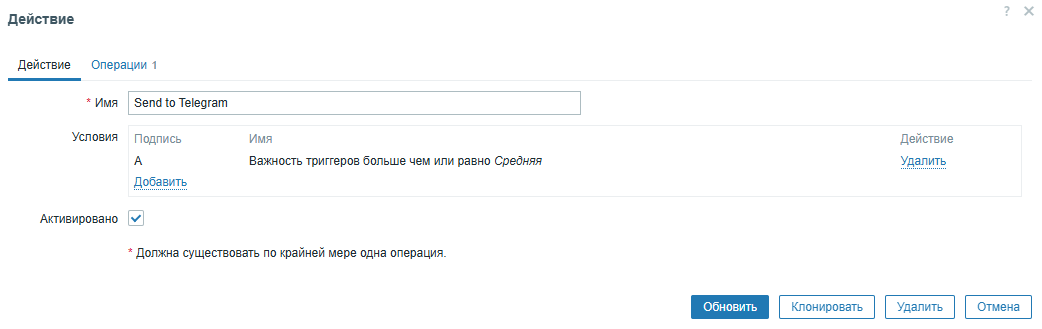
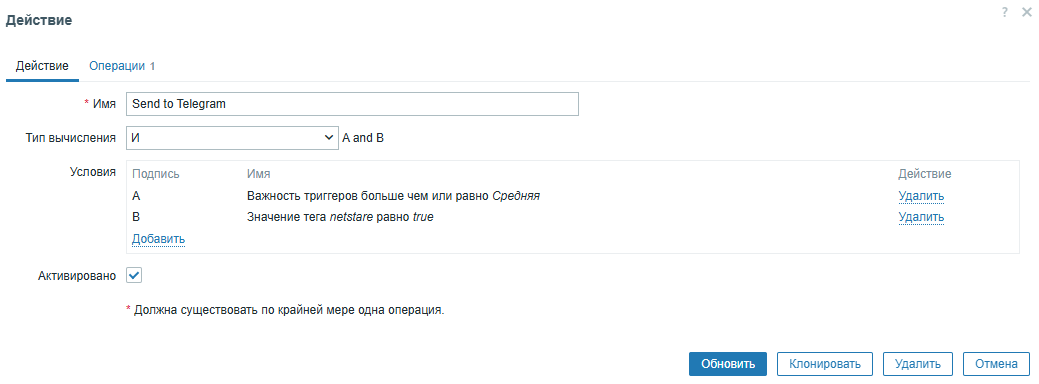
init

diff --git a/about/index.md b/about/index.md
@@ -3,16 +3,13 @@ title: Структура чат-бота
 layout: default
 nav_order: 2
 ---
-
 Первоначальный интерфейс чат-бота располагает элементами клавиатуры:
-1. 📖 **Выбор устройства** - фильтрация по группе, затем по устройству
-2. ❗ **Проблемы** - вывод списка текущих проблем с последующим переходом к ней
-3. 🔍 **Поиск** - поиск устройства по части его названия с послеующим переходом к его метрикам
-4. 👤 **Личный кабинет** - информация о пользователе
-5. 📚 **Помощь** - документация и поддержка
+1. 📖 **Выбор устройства** - фильтрация по группе, затем по устройству;
+2. ❗ **Проблемы** - вывод списка текущих проблем с последующим переходом к ней;
+3. 🔍 **Поиск** - поиск устройства по части его названия с послеующим переходом к его метрикам;
+4. 📚 **Помощь** - документация и поддержка.
 
-
+Структура клавиатуры
 {: .important-title }
-> Структура клавиатуры
 >
 > ![screenshot](../images/start.png)

diff --git a/zabbix/alerts.md b/zabbix/alerts.md
@@ -3,3 +3,18 @@ title: Подключение уведомлений
 layout: default
 parent: Интеграция Zabbix
 ---
+
+Подключение уведомлений на возникновение и восстановление проблемы
+(отправка ботом сообщений в Telegram-группу)
+
+1. По пути Оповещения -> Действия -> Действия триггеров:
+(**Путь на веб** - *zabbix.php?action=action.list&eventsource=0*)
+![screenshot](../images/zabbix-notifications/actions1.png)
+![screenshot](../images/zabbix-notifications/actions2.png)
+
+2. По пути Оповещения -> Способы оповещений -> Telegram:
+(**Путь на веб** - *zabbix.php?action=mediatype.list*)
+Задать скрипт, настройки и шаблоны, предоставленные вам менеджером
+![screenshot](../images/zabbix-notifications/notifications1.png)
+![screenshot](../images/zabbix-notifications/notifications2.png)
+

diff --git a/zabbix/rules.md b/zabbix/rules.md
@@ -6,7 +6,6 @@ nav_order: 1
 ---
 **NetStare** работает с системой Zabbix на следующих принципах:
 {: .important-title }
-> Принципы
 >
 > 1. Работа на основе ID
 > 2. Для блока Устройств обрабатываются только непустые группы
